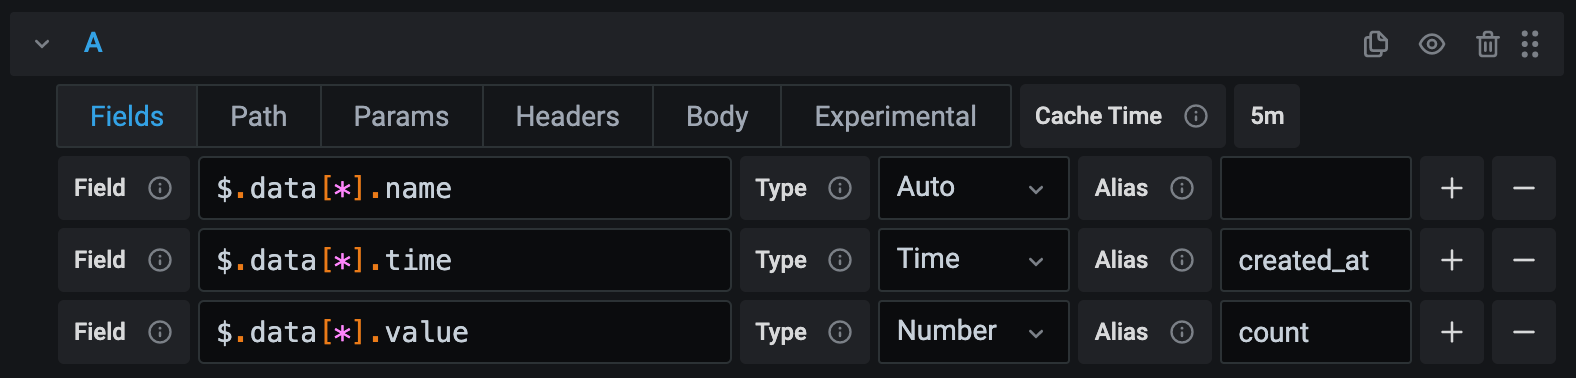
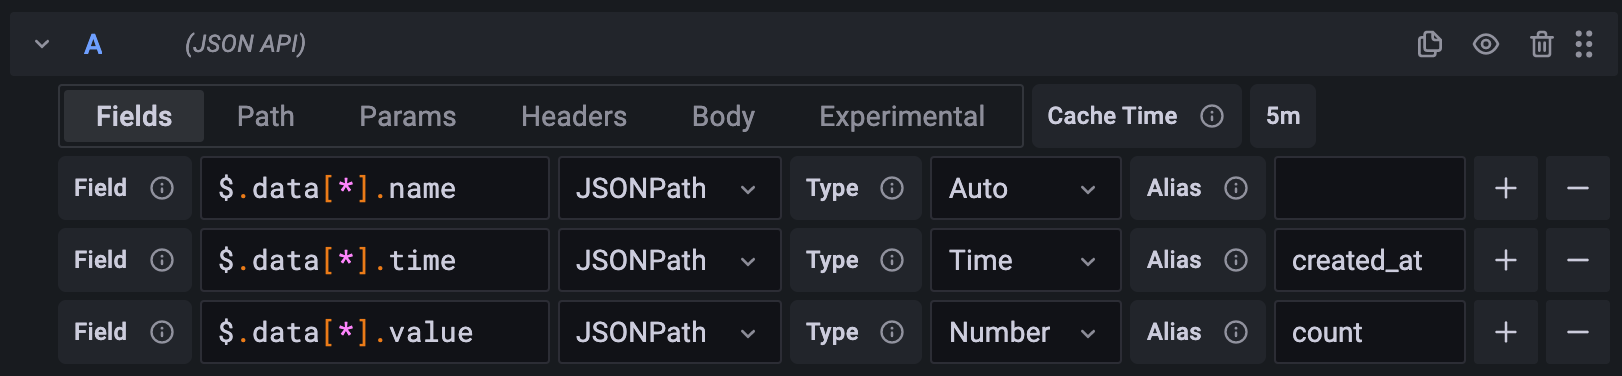
Update docs

diff --git a/website/sidebars.js b/website/sidebars.js
@@ -31,6 +31,10 @@ module.exports = {
     },
     {
       type: 'doc',
+      id: 'jsonata',
+    },
+    {
+      type: 'doc',
       id: 'troubleshooting',
     },
   ],

diff --git a/website/docs/query-editor.md b/website/docs/query-editor.md
@@ -13,7 +13,7 @@ The query editor for the JSON API data source consists of a number of tabs. Each
 
 The **Fields** tab is where you select the data to extract from the JSON document returned by the URL configured in the data source configuration.
 
-- **Field** must contain a valid [JSONPath](./jsonpath.md) expression and can return one or more elements.
+- **Field** lets you define a query expression that determines the data to extract from the JSON document. There are two supported query languages: [JSONPath](./jsonpath.md) and [JSONata](./jsonata.md).
 - **Type** defines the JSON type of the elements returned by the **Field** expression. By default, Grafana uses the types in the JSON document. If **Type** is set to a different type than the original property type, Grafana tries to parse the value.
 - **Alias** overrides the default name of the field.
 

diff --git a/website/docs/jsonata.md b/website/docs/jsonata.md
@@ -1,0 +1,10 @@
+---
+id: jsonata
+title: JSONata
+---
+
+[JSONata](https://docs.jsonata.org/) is a query and transformation language for JSON data.
+
+If you're new to JSONata, start by looking at some [simple queries](https://docs.jsonata.org/simple).
+
+[Dashboard variables](https://grafana.com/docs/grafana/latest/variables/) are available as JSONata variables, e.g. `$instanceName`. Since dashboard variables can have multiple values, the JSONata variable is always an array. If your variable contains a single value, you can use `$instanceName[0]` to index the first value in the array.
